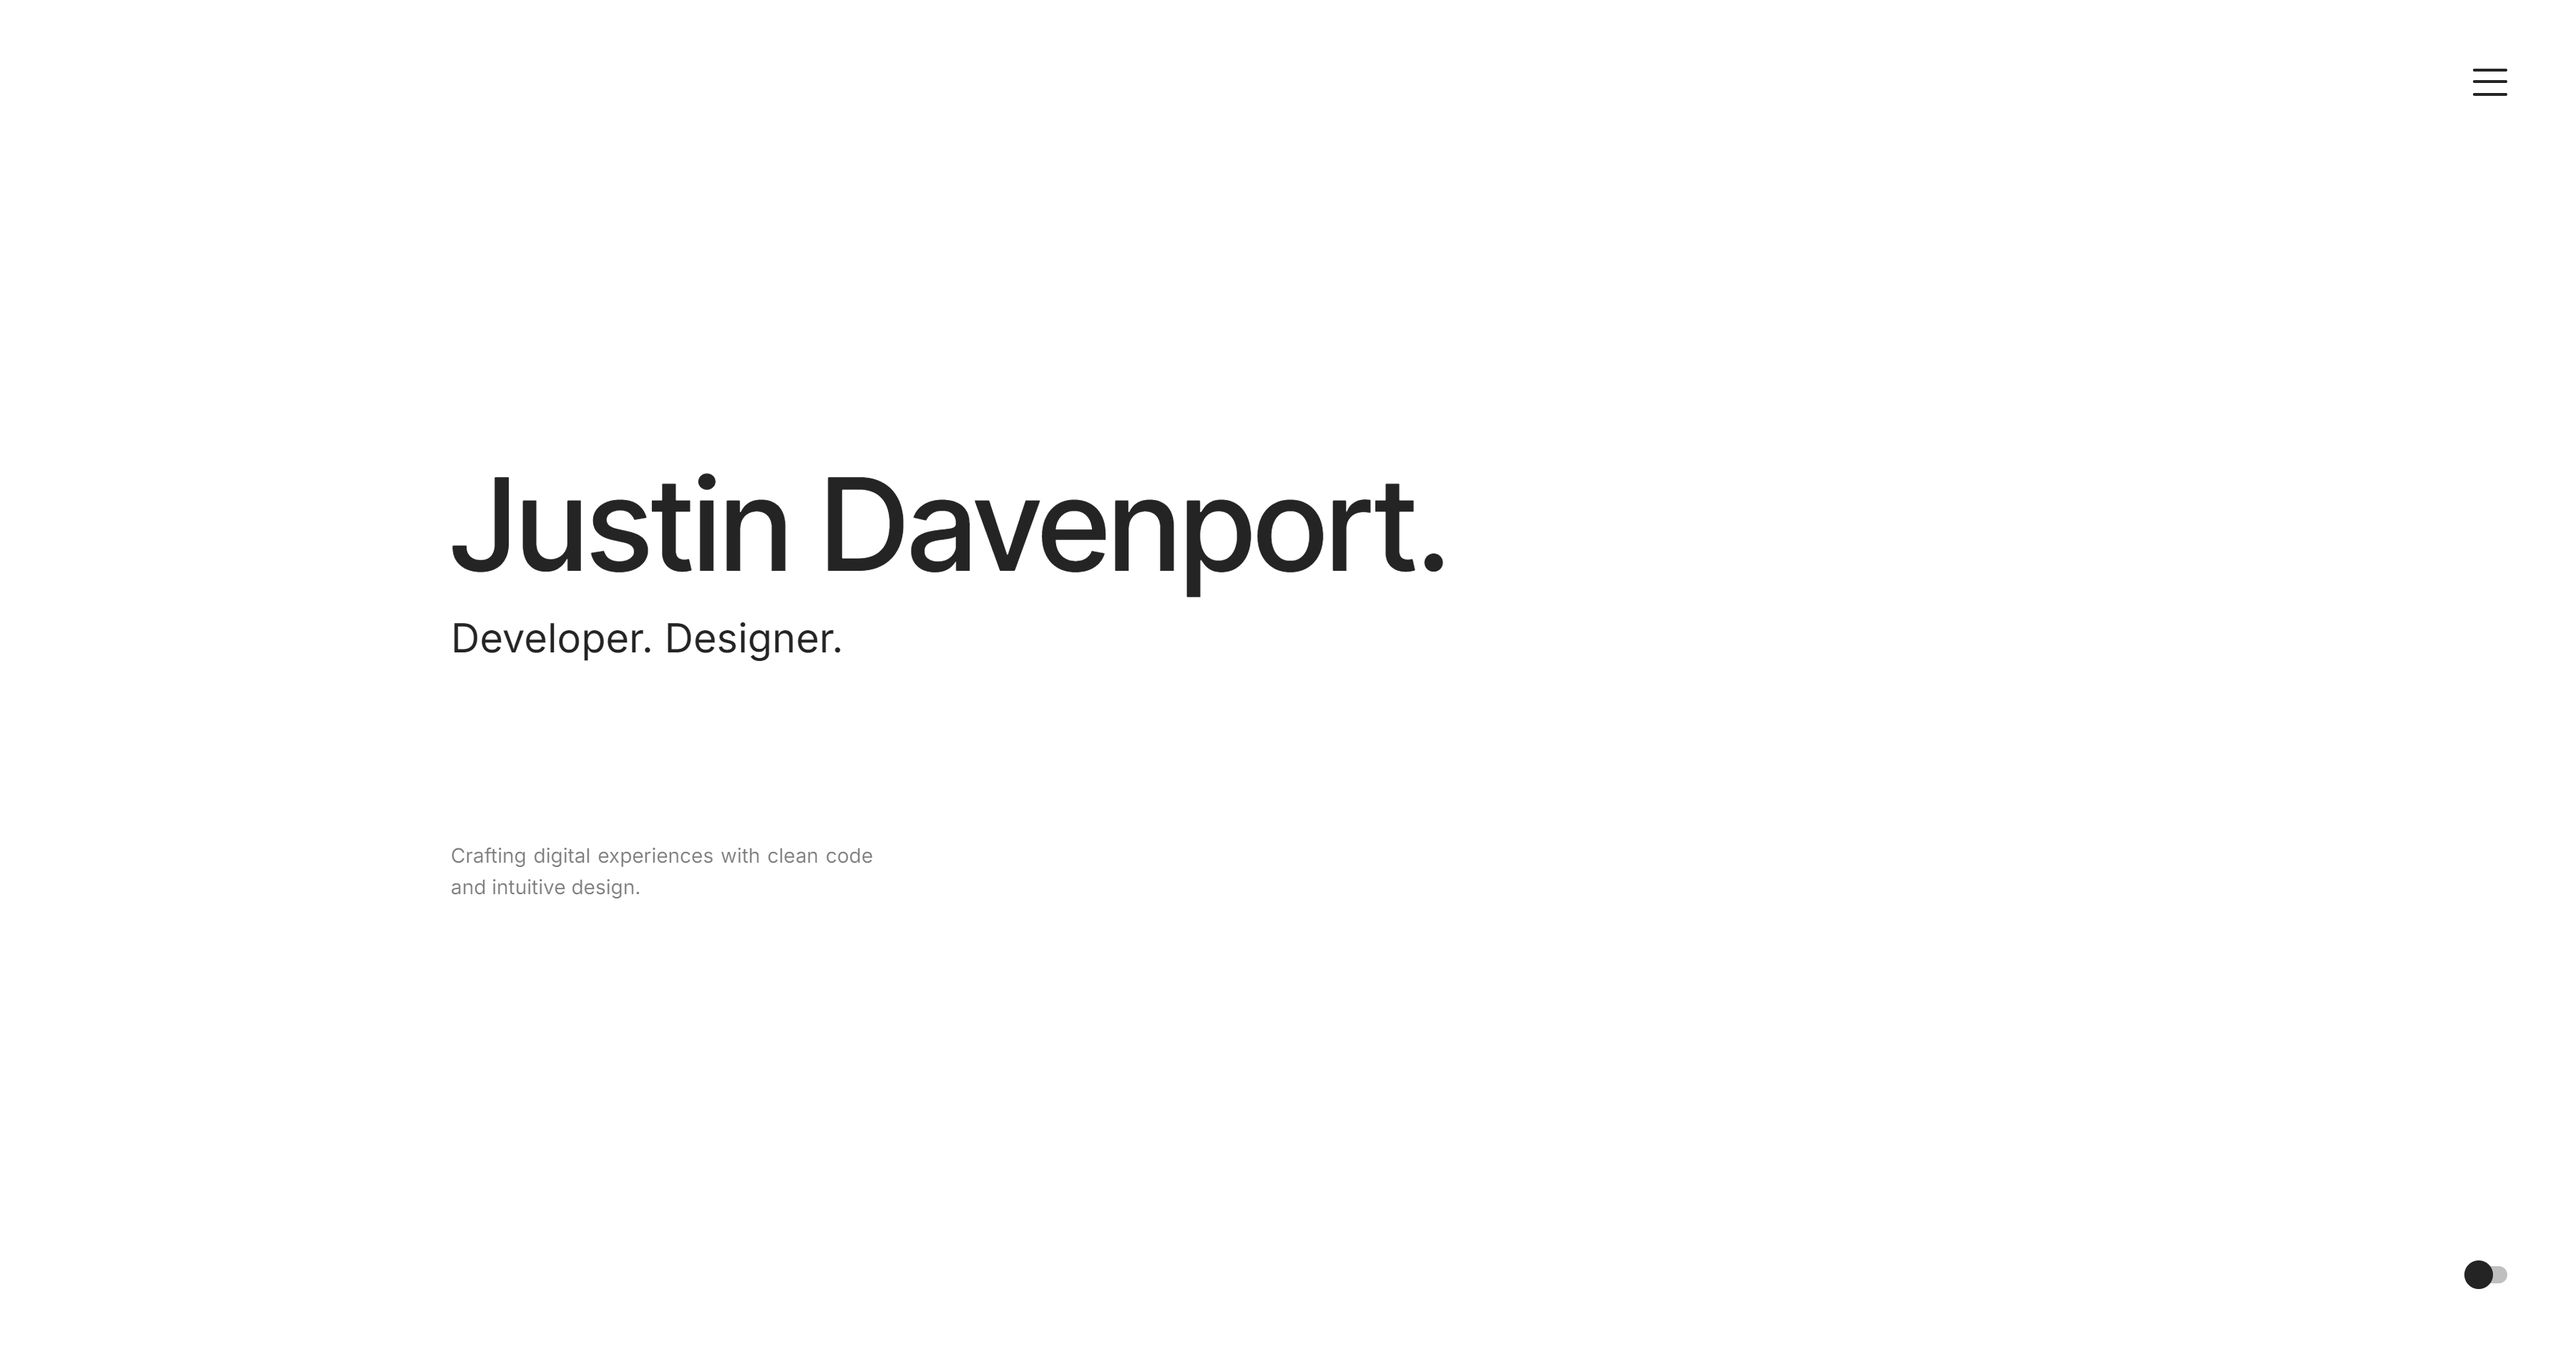
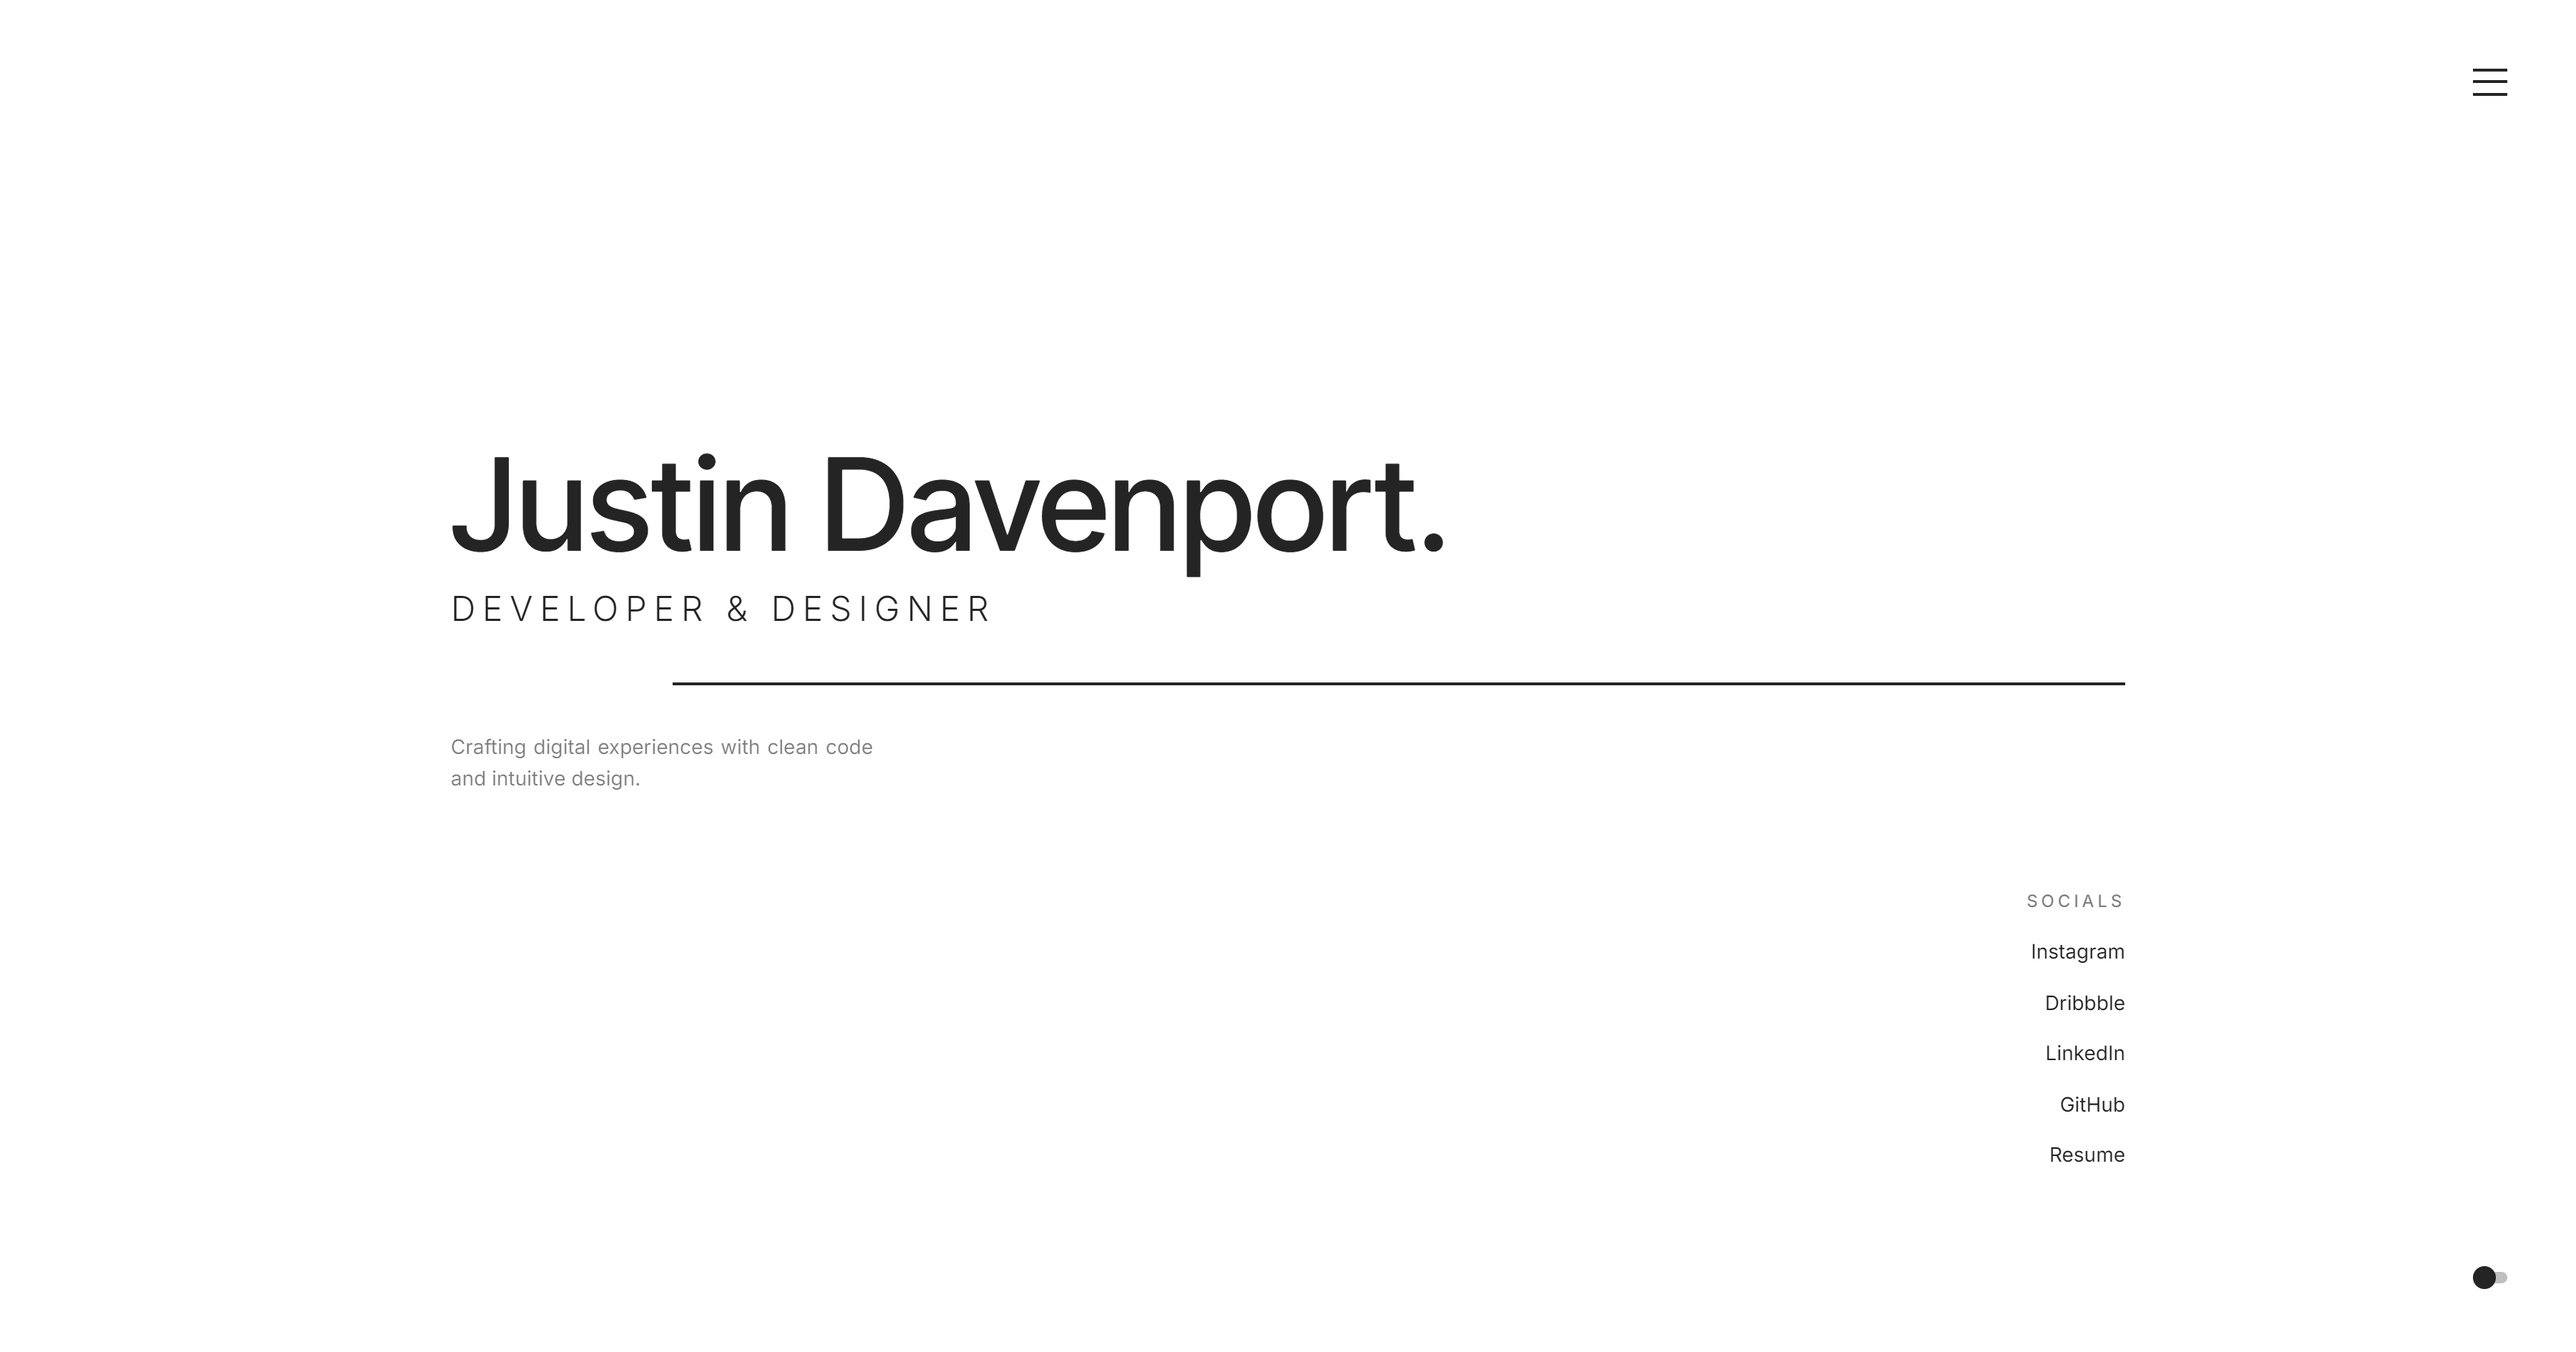
+

Changed region(s): [[0.1556, 0.3122, 0.56, 0.4995], [0.1867, 0.5307, 0.3111, 0.5931], [0.1867, 0.6243, 0.3111, 0.6556]]

diff --git a/src/app/page.tsx b/src/app/page.tsx
@@ -8,6 +8,7 @@ import { gsap } from "gsap";
 import { useInView } from "react-intersection-observer";
 
 export default function Home() {
+  const home = useRef<HTMLDivElement>(null);
   const homeDiv = useRef<HTMLDivElement>(null);
   const servicesDiv = useRef<HTMLDivElement>(null);
   const worksDiv = useRef<HTMLDivElement>(null);
@@ -52,14 +53,19 @@ export default function Home() {
 
   const [contentHolder1, inViewContentHolder1] = useInView({
     triggerOnce: true,
-    threshold: 0.2,
+    threshold: 0.4,
   });
   const hr1 = useRef<HTMLHRElement>(null);
   const [contentHolder2, inViewContentHolder2] = useInView({
     triggerOnce: true,
-    threshold: 0.2,
+    threshold: 0.4,
   });
   const hr2 = useRef<HTMLHRElement>(null);
+  const [contentHolder3, inViewContentHolder3] = useInView({
+    triggerOnce: true,
+    threshold: 0,
+  });
+  const hr3 = useRef<HTMLHRElement>(null);
 
   useEffect(() => {
     if (inViewContentHolder1) {
@@ -88,7 +94,21 @@ export default function Home() {
         ease: "power2.inOut",
       });
     }
-  }, [inViewContentHolder1, inViewContentHolder2]);
+    if (inViewContentHolder3) {
+      const tl = gsap.timeline();
+      tl.to(home.current, {
+        opacity: 1,
+        duration: 1,
+        delay: 1,
+        ease: "power2.inOut",
+      });
+      tl.to(hr3.current, {
+        width: "100%",
+        duration: 0.5,
+        ease: "power2.inOut",
+      });
+    }
+  }, [inViewContentHolder1, inViewContentHolder2, inViewContentHolder3]);
 
   const [theme, setTheme] = useState("light");
 
@@ -283,43 +303,80 @@ export default function Home() {
         style={{
           flexDirection: "column",
           minHeight: "100vh",
+          justifyContent: "flex-end",
         }}
+        ref={contentHolder3}
       >
-        <div className="container-splash">
-          <h1
-            className={inter_tight.className}
-            style={{
-              animation: "fade 750ms ease-in-out forwards",
-              animationDelay: ".5s",
-              opacity: "0",
-            }}
-          >
-            Justin Davenport.
-          </h1>
+        <div
+          className="container-splash"
+          style={{ opacity: "0", marginBottom: "8rem" }}
+          ref={home}
+        >
           <div
             style={{
-              marginBottom: "6rem",
-              animation: "fade 750ms ease-in-out forwards",
-              animationDelay: "1.5s",
-              opacity: "0",
+              width: "100%",
             }}
           >
-            <span style={{ fontSize: "clamp(24px, 4vw, 28px)" }}>
-              Developer. Designer.
-            </span>
+            <h1 className={inter_tight.className}>Justin Davenport.</h1>
+            <h2>DEVELOPER & DESIGNER</h2>
+            <hr ref={hr3} style={{ width: "0%" }} />
+            <p
+              style={{
+                maxWidth: "295px",
+                textAlign: "justify",
+                marginBottom: "4rem",
+              }}
+            >
+              Crafting digital experiences with clean code and intuitive design.
+            </p>
           </div>
-          <br />
-          <p
-            style={{
-              maxWidth: "295px",
-              textAlign: "justify",
-              animation: "fade 750ms ease-in-out forwards",
-              animationDelay: "2.5s",
-              opacity: "0",
-            }}
-          >
-            Crafting digital experiences with clean code and intuitive design.
-          </p>
+          <div className="footerLinks">
+            <p
+              style={{
+                fontSize: "clamp(10px, 2vw, 12px)",
+                fontWeight: 500,
+                lineHeight: 1.6,
+                letterSpacing: "0.2em",
+              }}
+            >
+              SOCIALS
+            </p>
+            <Link
+              href="https://www.instagram.com/justindavenport.space/"
+              target="_blank"
+              rel="noopener noreferrer"
+              aria-label="Instagram"
+            >
+              Instagram
+            </Link>
+            <Link
+              href="https://dribbble.com/justindavenport"
+              target="_blank"
+              rel="noopener noreferrer"
+              aria-label="Dribbble"
+            >
+              Dribbble
+            </Link>
+            <Link
+              href="https://www.linkedin.com/in/justindavenport99/"
+              target="_blank"
+              rel="noopener noreferrer"
+              aria-label="LinkedIn"
+            >
+              LinkedIn
+            </Link>
+            <Link
+              href="https://github.com/Jdavenport3199"
+              target="_blank"
+              rel="noopener noreferrer"
+              aria-label="GitHub"
+            >
+              GitHub
+            </Link>
+            <button onClick={downloadResume} aria-label="Resume">
+              Resume
+            </button>
+          </div>
         </div>
       </div>
 
@@ -516,13 +573,13 @@ export default function Home() {
           </div>
           <div
             style={{
-              display: emailForm ? "none" : "block",
-              textAlign: "left",
+              display: emailForm ? "none" : "flex",
+              width: "100%",
+              justifyContent: "right",
             }}
           >
-            <p>
+            <p style={{ maxWidth: "295px", textAlign: "justify" }}>
               Your message has been received.
-              <br />A response will follow shortly.
             </p>
           </div>
           <form
@@ -562,7 +619,7 @@ export default function Home() {
                 <input
                   className={inter.className}
                   type="text"
-                  placeholder="Redesign"
+                  placeholder="Design"
                   required
                   onChange={(e) => setTopic(e.target.value)}
                   value={topic}
@@ -591,7 +648,7 @@ export default function Home() {
               value={message}
             />
             <button type="submit" className="button">
-              SUBMIT
+              Submit
             </button>
           </form>
         </div>

diff --git a/src/app/globals.css b/src/app/globals.css
@@ -60,7 +60,7 @@
     border: 1px solid rgba(36, 36, 36, 0.05);
   } */
 
-  @keyframes fade {
+  /* @keyframes fade {
     0% {
       opacity: 0;
       transform: translateY(50%)
@@ -70,7 +70,7 @@
       opacity: 1;
       transform: translateY(0%)
     }
-  }
+  } */
 
   button {
     all: unset;
@@ -123,7 +123,7 @@
     border-top: 2px solid var(--text-color);
     margin-left: 155px;
     margin-block: 2rem;
-    border-radius: 100rem;
+    /* border-radius: 100rem; */
   }
 
   .button {
@@ -136,7 +136,7 @@
     color: var(--background-color);
     border: 1px solid var(--text-color);
     background: var(--text-color);
-    border-radius: 100rem;
+    /* border-radius: 100rem; */
     transition: 300ms ease-out;
   }
 
@@ -149,7 +149,7 @@
     cursor: pointer;
     position: fixed;
     top: 1rem;
-    right: 1rem;
+    right: 0rem;
     z-index: 6;
     padding: 1rem;
   }
@@ -157,7 +157,7 @@
   .toggle {
     position: fixed;
     bottom: 1rem;
-    right: 1rem;
+    right: 0rem;
     z-index: 6;
     padding: 1rem;
   }
@@ -166,7 +166,7 @@
     position: absolute;
     color: var(--text-color);
     background: var(--text-color);
-    width: 1.25rem;
+    width: 1rem;
     aspect-ratio: 1/1;
     z-index: 1.25;
     border-radius: 100rem;
@@ -182,7 +182,6 @@
     -webkit-backdrop-filter: blur(8px);
     background: var(--glass);
     border-radius: 100rem;
-    padding: .2rem;
     padding-block: 0;
 
     .toggle-switch {
@@ -190,7 +189,7 @@
       align-items: center;
       justify-content: center;
       width: .75rem;
-      aspect-ratio: 1/1;
+      height: .5rem;
       z-index: 2;
       border-radius: 100rem;
     }
@@ -204,11 +203,12 @@
 
   input,
   textarea {
+    color: var(--text-color);
     font-size: clamp(12px, 2vw, 14px);
     font-weight: 400;
     width: 100%;
     border: 0px;
-    border-bottom: 1px solid transparent;
+    border-bottom: 2px solid transparent;
     background: transparent;
     margin-bottom: 1rem;
     padding: 1rem;
@@ -216,13 +216,14 @@
     transition: 300ms ease;
   }
 
-  input:focus {
-    outline: none;
-    border-bottom: 1px solid var(--text-color);
+  textarea {
+    margin-bottom: 2rem;
   }
 
+  input:focus,
   textarea:focus {
     outline: none;
+    border-bottom: 2px solid var(--text-color);
   }
 
   ::placeholder {
@@ -257,7 +258,7 @@
     -webkit-backdrop-filter: blur(8px);
     background: #f5f5f540;
     color: white;
-    border-radius: 100rem;
+    /* border-radius: 100rem; */
     transition: 300ms ease-out;
   }
 
@@ -321,7 +322,7 @@
     max-height: 450px;
     transition: 150ms linear;
     width: 100%;
-    border-radius: 2rem;
+    /* border-radius: 2rem; */
   }
 
   .project-btn {
@@ -337,7 +338,7 @@
     width: 2.5rem;
     aspect-ratio: 1/1;
     z-index: 4;
-    border-radius: 100rem;
+    /* border-radius: 100rem; */
   }
 
   .img {
@@ -415,6 +416,10 @@
 
   form {
     width: 615px;
+  }
+
+  .footerLinks {
+    align-items: flex-end;
   }
 }
 

diff --git a/src/app/components/Articles.tsx b/src/app/components/Articles.tsx
@@ -125,7 +125,7 @@ const Articles: React.FC<Props> = ({ articlesDiv }) => {
                   style={{
                     maxHeight: "345px",
                     overflow: "hidden",
-                    borderRadius: "2rem",
+                    // borderRadius: "2rem",
                   }}
                 >
                   <img

diff --git a/src/app/layout.tsx b/src/app/layout.tsx
@@ -8,7 +8,7 @@ export const metadata: Metadata = {
     template: "%s — Justin Davenport.",
   },
   description:
-    "Developer. Designer.",
+    "DEVELOPER & DESIGNER",
   openGraph: {
     images: "https://www.justindavenport.space/opengraph-image.png",
   },
